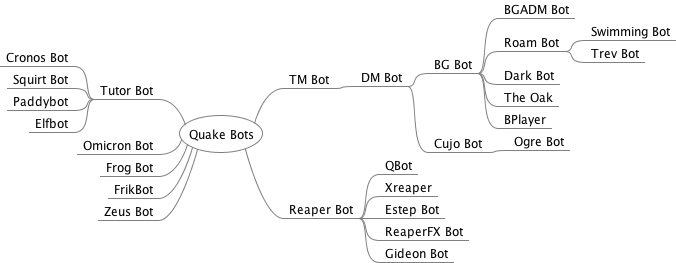
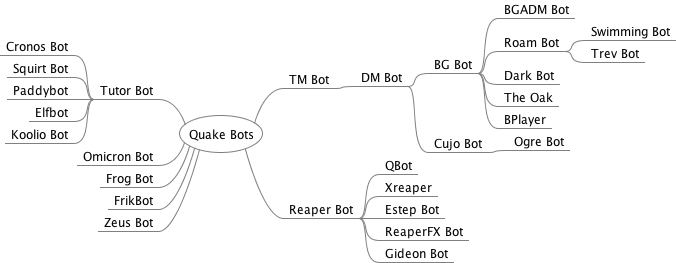
Added Koolio Bot

Changed region(s): [[0.0, 0.1521, 0.3107, 0.8821]]

diff --git a/mindmap/QuakeBots.mm b/mindmap/QuakeBots.mm
@@ -1,11 +1,12 @@
 <map version="1.0.1">
 <!-- To view this file, download free mind mapping software FreeMind from http://freemind.sourceforge.net -->
 <node CREATED="1622514182273" ID="ID_507786403" MODIFIED="1622515113377" TEXT="Quake Bots">
-<node CREATED="1622514794312" ID="ID_565546253" MODIFIED="1622514799871" POSITION="left" TEXT="Tutor Bot">
+<node CREATED="1622514794312" ID="ID_565546253" MODIFIED="1622667943905" POSITION="left" TEXT="Tutor Bot">
 <node CREATED="1622514804704" ID="ID_11024833" MODIFIED="1622514812370" TEXT="Cronos Bot"/>
 <node CREATED="1622665755811" ID="ID_1110325053" MODIFIED="1622665757190" TEXT="Squirt Bot"/>
 <node CREATED="1622666096174" ID="ID_1637279739" MODIFIED="1622666098346" TEXT="Paddybot"/>
 <node CREATED="1622667023223" ID="ID_1875001763" MODIFIED="1622667024461" TEXT="Elfbot"/>
+<node CREATED="1622667943906" ID="ID_660699926" MODIFIED="1622667947106" TEXT="Koolio Bot"/>
 </node>
 <node CREATED="1622514200034" ID="ID_1362333058" MODIFIED="1622514302490" POSITION="right" TEXT="TM Bot">
 <node CREATED="1622514242481" ID="ID_1334863165" MODIFIED="1622585805922" TEXT="DM Bot">

diff --git a/README.md b/README.md
@@ -37,5 +37,7 @@ ReaperFX Bot | A. W. Johnstone aka "Pob the Impaler" | [reaperfx.zip](bin/reaper
 Gideon Bot | Matthew Turvey | [gidbot.zip](bin/gidbot.zip) | Yes |
 Squirt Bot | Michael Buettner aka "Squirt" | [squirt13.zip](bin/squirt13.zip) | Yes |
 Paddybot | "sniper" | paddybot02.zip | |
-Elfbot | "SkinSki" | [elfbot.zip](bin/elfbot.zip) | |
+Elfbot | "SkinSki" | [elfbot.zip](bin/elfbot.zip) | Yes |
+Koolio Bot | "Koolio" | ? | |
+
 
